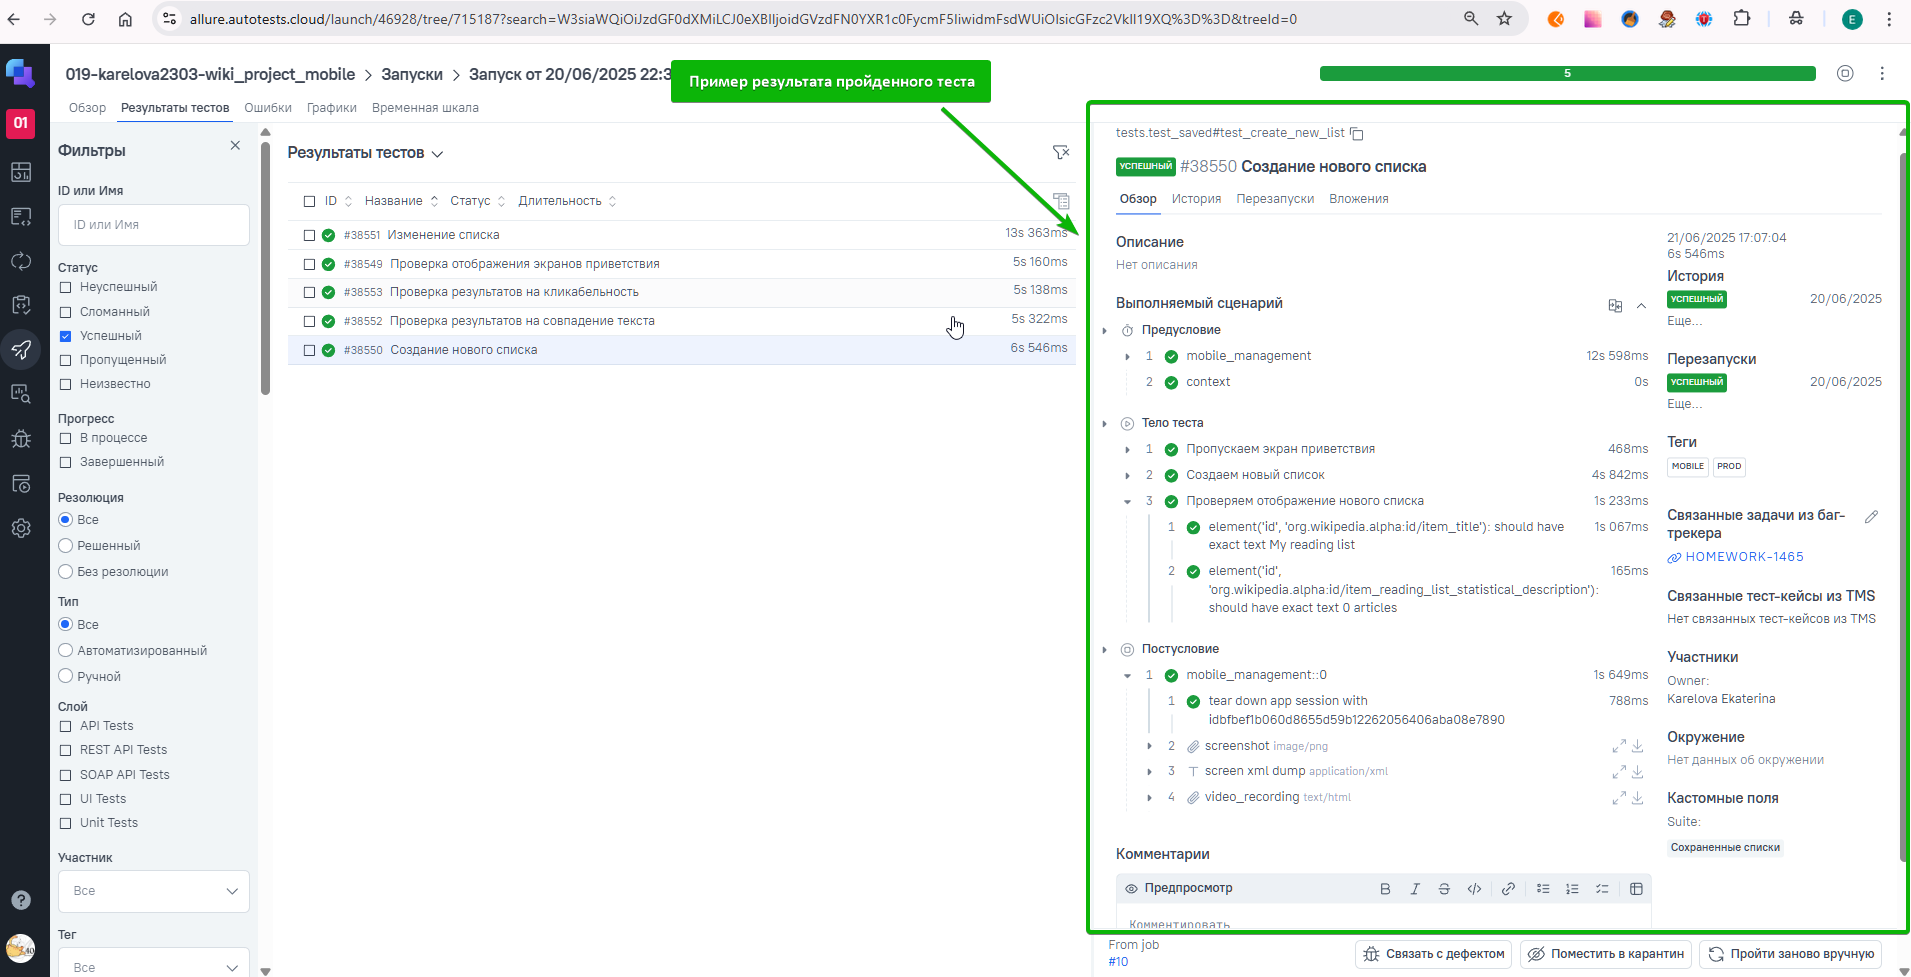
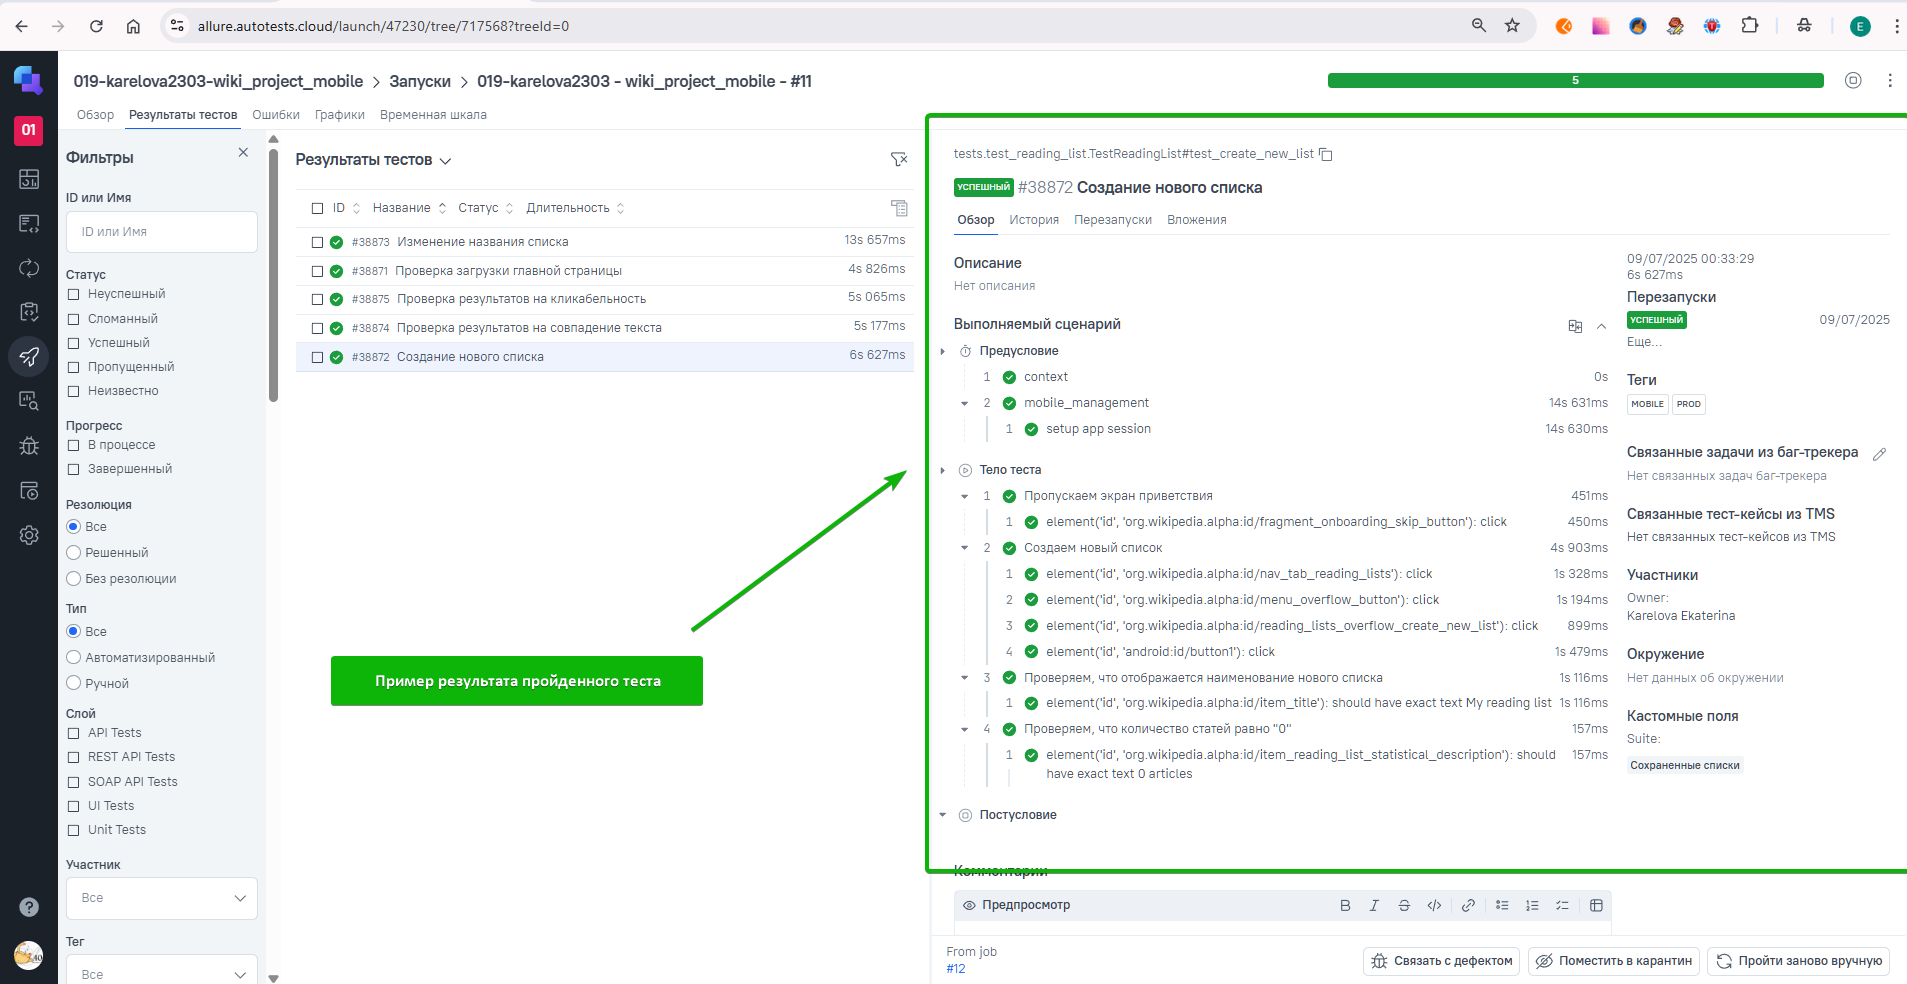
update

diff --git a/README.md b/README.md
@@ -33,7 +33,7 @@
   <img src="https://github.com/karelova2303/karelova2303/blob/main/media/icons/telegram1.png" 
     title="Telegram" alt="Telegram" width="40" height="40"/>&nbsp;
 <img src="https://github.com/karelova2303/karelova2303/blob/main/media/icons/Jira.png" 
-    title="Telegram" alt="Jira" width="40" height="40"/>&nbsp;
+    title="Jira" alt="Jira" width="40" height="40"/>&nbsp;
 </div>
 
 ----
